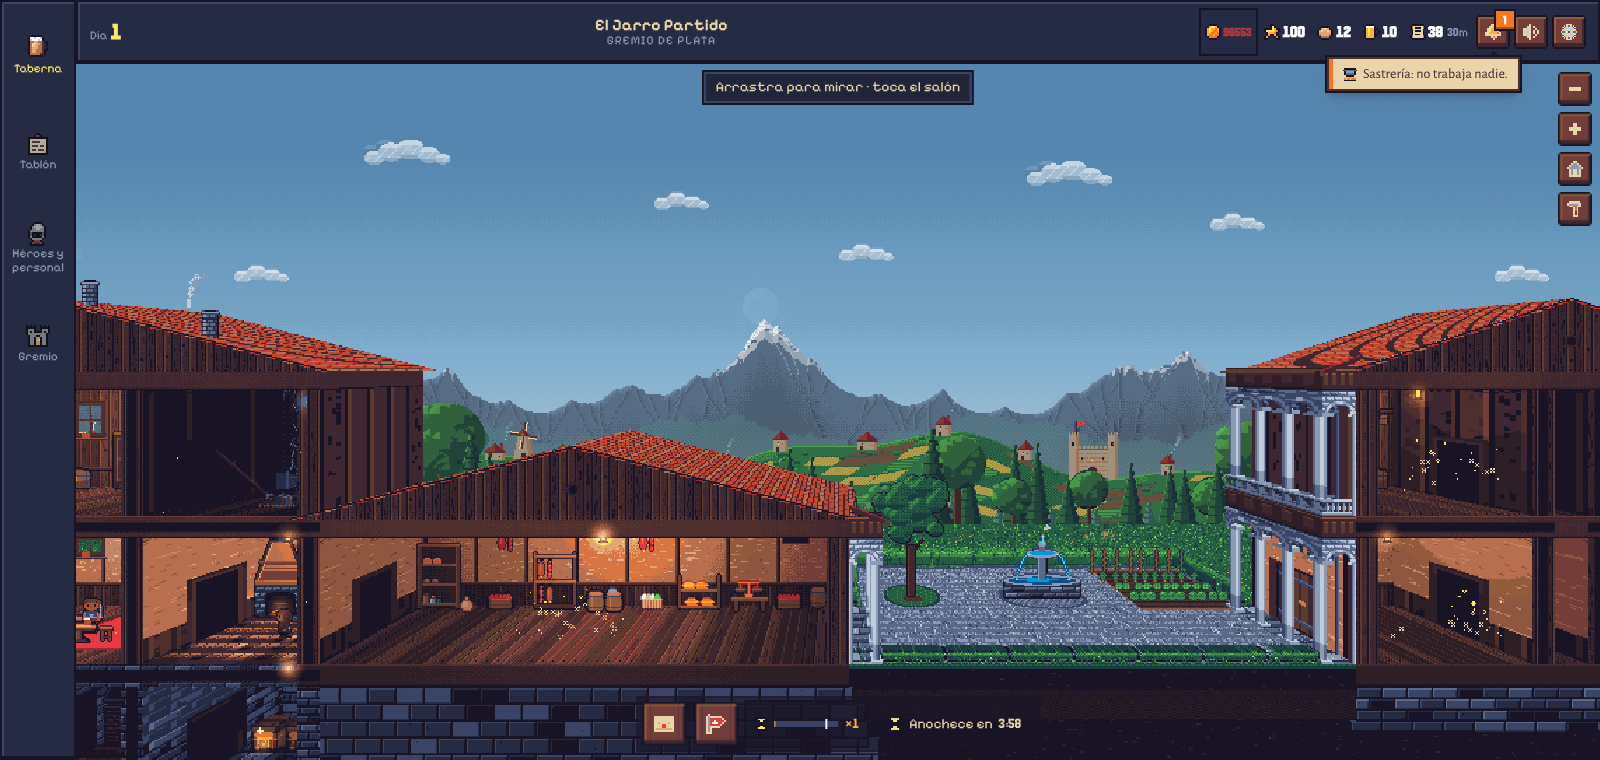
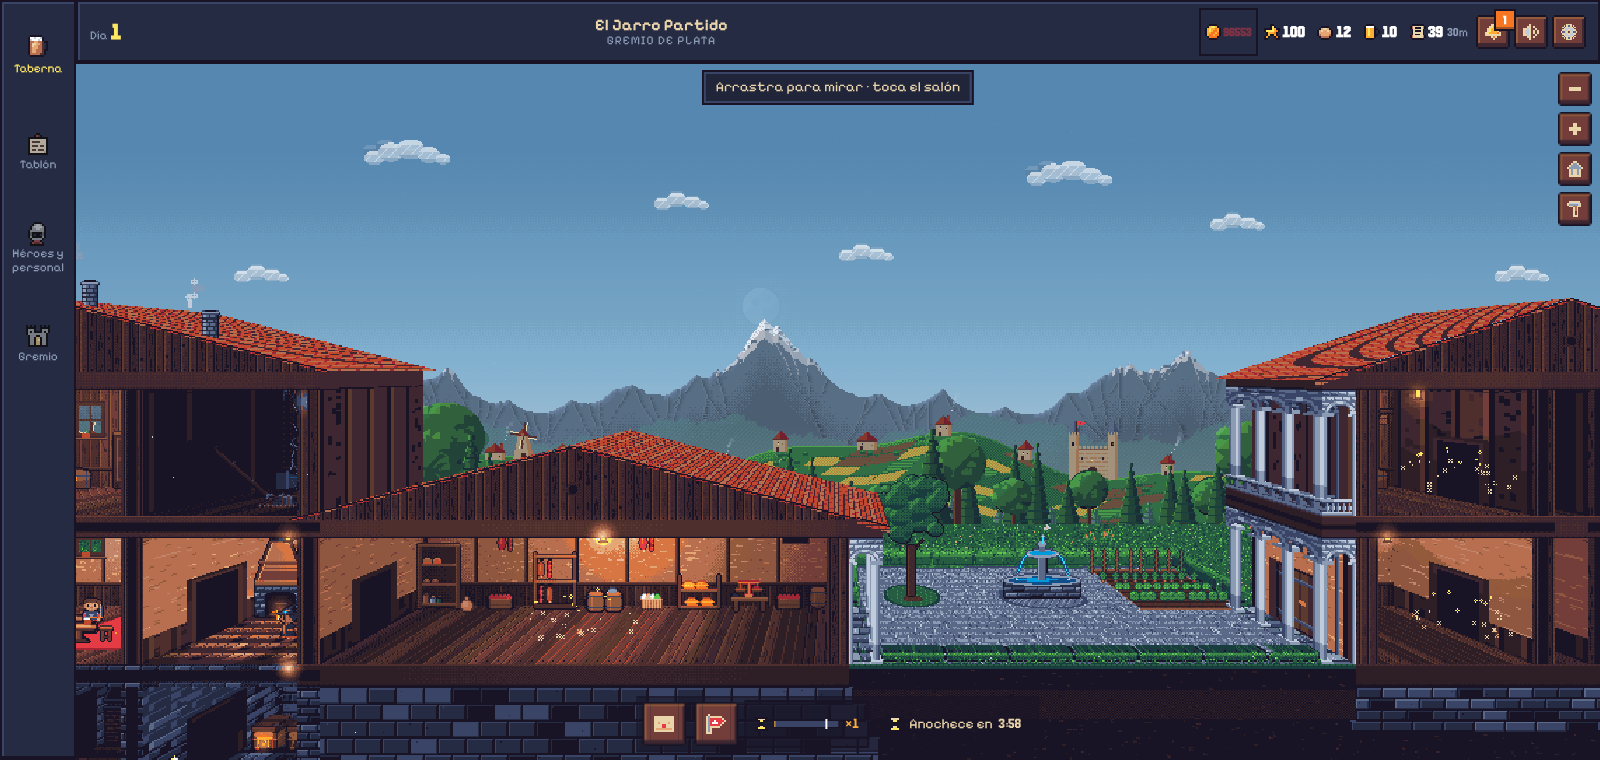
Claustro: el tejado es el faldón del edificio que sigue, y vigas y techos como los del edificio
- El faldón del edificio que da al jardín sigue con su pendiente y sus tejas
  hasta pasar los arcos, con el mismo canto de tejas delante que el
  hastial; la planta de arriba se recorta por la línea del tejado (antes
  asomaba la viga y el tejadillo iba del revés y no se veía).
- La viga del forjado es la del corte del edificio (alma oscura solo entre
  plantas) y el techo de los soportales, el de las salas.

Claude-Session: https://claude.ai/code/session_011Wau2CUcks799q681YrKG8

diff --git a/src/world/rooms/RoomScene.ts b/src/world/rooms/RoomScene.ts
@@ -28,7 +28,7 @@ import {
   WebGLRenderer,
   type ShaderMaterial,
 } from 'three';
-import { P, R, darker } from '../../art/palette';
+import { P, darker } from '../../art/palette';
 import { PixelBuffer, bayer, rgba, toHex } from '../../art/pixel';
 import type { Building, RaidResult, Room, RoomYield } from '../../core/model';
 import { ROOMS } from '../../data/rooms';
@@ -52,7 +52,6 @@ import { CANDLE, takeWallActs, type ActId, type PoiKind, type Round } from './sa
 import { FLIGHT_Z, flightArt, goesRight } from './stairs';
 import { dress } from './salas/tintes';
 import { Crowd, type Hit, type Poi, type Talk } from './crowd';
-import { roofAt } from './fachada';
 import {
   CLOISTER_W,
   COL_R,
@@ -63,10 +62,9 @@ import {
   LAMP_Z,
   PIECE_Z,
   VERGE_Z,
-  cloisterCeiling,
   cloisterEnd,
   cloisterSide,
-  eaveEnd,
+  eaveFront,
   hedgeFace,
   leafTex,
   edgeArt,
@@ -2083,13 +2081,37 @@ export class RoomScene {
             : [at(x, yb, D), at(x, yb, 0), at(x, yt, 0), at(x, yt, D)],
           o,
         );
+      // El tejado: el faldón del edificio que da al jardín sigue, con la misma pendiente y las
+      // mismas tejas, hasta pasar los arcos; delante, el mismo canto de tejas que el hastial. Si
+      // ese faldón no está a la altura del claustro (no debería pasar), un tejadillo propio.
+      const roof = model.look?.roof;
+      const base = floorTop(top) - SLAB;
+      const run = roofRuns(L).find(
+        (r) => r.base === base && Math.abs((s === 1 ? r.x1 - 6 : r.x0 + 6) - xw) < 1.5,
+      );
+      const xr = run ? (s === 1 ? run.x1 : run.x0) : xw;
+      const yr = run ? base + 2 : base - 9;
+      const slope = run ? (run.h + 2) / ((run.x1 - run.x0) / 2) : 11 / (CLOISTER_W + 5);
+      const xe = xa + s * 5;
+      const ye = yr + slope * Math.abs(xe - xr);
+      const d = D + 6;
+      // La línea del tejado en cada x (lo de la planta de arriba que quede por encima, fuera).
+      const roofY = (x: number) => yr + slope * s * (x - xr);
+      const underRoof = (img: PixelBuffer, xAt: (i: number) => number, yt: number) => {
+        for (let i = 0; i < img.w; i++) {
+          const cut = Math.ceil(roofY(xAt(i)) - yt);
+          for (let j = 0; j < Math.min(img.h, cut); j++) img.clear(i, j);
+        }
+        return img;
+      };
       for (let f = 0; f <= top; f++) {
         const yt = floorTop(f) - SLAB;
         const yb = floorY(f);
         const up = f > 0;
         const spring = yt + SLAB + SPRING;
         // Delante, el arco: la cara de fuera a la luz y la de dentro, más honda, en sombra.
-        const end = flip(cloisterEnd(CLOISTER_W, PITCH, up, SLAB));
+        let end = flip(cloisterEnd(CLOISTER_W, PITCH, up, SLAB, f < top));
+        if (f === top) end = underRoof(end, (i) => x0 + i + 0.5, yt);
         this.plane(g, end, [at(x0, yb, 0), at(x1, yb, 0), at(x1, yt, 0), at(x0, yt, 0)], lit);
         this.plane(g, end, [at(x0, yb, T), at(x1, yb, T), at(x1, yt, T), at(x0, yt, T)], deep);
         // De lado, igual: fuera, a la luz; dentro (hacia la fachada), en sombra.
@@ -2099,9 +2121,12 @@ export class RoomScene {
           up,
           SLAB,
           zs.map((z) => z / 2),
+          f < top,
         );
-        sideAt(side, xa, yb, yt, shade);
-        sideAt(side, xa - s * T, yb, yt, deep);
+        const cropAt = (x: number) =>
+          f === top ? underRoof(side.crop(0, 0, side.w, side.h), () => x, yt) : side;
+        sideAt(cropAt(xa), xa, yb, yt, shade);
+        sideAt(cropAt(xa - s * T), xa - s * T, yb, yt, deep);
         // Las columnas, con su basa y su capitel.
         for (const z of zs) {
           const base = up ? yb - PARAPET + 2 : yb;
@@ -2129,7 +2154,7 @@ export class RoomScene {
         const ceil = yt + SLAB;
         this.plane(
           g,
-          cloisterCeiling(CLOISTER_W, D / 2),
+          ceilingTex(themeOf(f), CLOISTER_W, `claustro${xw}${f}`),
           [at(x0, ceil, D), at(x1, ceil, D), at(x1, ceil, 0), at(x0, ceil, 0)],
           deep,
         );
@@ -2141,37 +2166,25 @@ export class RoomScene {
             shade,
           );
       }
-      // El tejadillo: de la fachada (arriba) a fuera del arco (abajo), con las tejas del edificio,
-      // su tabla de alero a lo largo y el testero delante.
-      const roof = model.look?.roof;
-      const ridge = floorTop(top) - SLAB - 9;
-      const eave = floorTop(top) - SLAB + 2;
-      const xe = xa + s * 5;
-      const len = Math.round(Math.hypot(xe - xw, eave - ridge));
       this.plane(
         g,
-        roofTiles(len, `tejadillo${xw}`, roof),
+        roofTiles(Math.round(Math.hypot(xe - xr, ye - yr)), `claustro${xw}`, roof),
         s === 1
-          ? [at(xe, eave, D + 2), at(xe, eave, -2), at(xw, ridge, -2), at(xw, ridge, D + 2)]
-          : [at(xe, eave, -2), at(xe, eave, D + 2), at(xw, ridge, D + 2), at(xw, ridge, -2)],
+          ? [at(xe, ye, 0), at(xe, ye, d), at(xr, yr, d), at(xr, yr, 0)]
+          : [at(xe, ye, d), at(xe, ye, 0), at(xr, yr, 0), at(xr, yr, d)],
         lit,
       );
-      const fascia = new PixelBuffer(D / 2 + 2, 3);
-      fascia.rect(0, 0, fascia.w, 3, R.wood[3]!);
-      fascia.hline(0, 2, fascia.w, R.wood[1]!);
-      sideAt(fascia, xe, eave + 3, eave, lit);
-      const ew = Math.round(Math.abs(xe - xw));
-      const eh = Math.round(eave - ridge) + 4;
-      const tip = roofAt(roof, 0, 0, 3);
-      const endImg = flip(eaveEnd(ew, eh, tip, R.wood[1]!));
+      const ew = Math.round(Math.abs(xe - xr));
+      const band = eaveFront(ew, ye - yr, roof);
+      const [ex0, ex1] = s === 1 ? [xr, xe] : [xe, xr];
       this.plane(
         g,
-        endImg,
+        flip(band),
         [
-          at(Math.min(xw, xe), ridge + eh, -2),
-          at(Math.max(xw, xe), ridge + eh, -2),
-          at(Math.max(xw, xe), ridge, -2),
-          at(Math.min(xw, xe), ridge, -2),
+          at(ex0, yr - 1 + band.h, -0.3),
+          at(ex1, yr - 1 + band.h, -0.3),
+          at(ex1, yr - 1, -0.3),
+          at(ex0, yr - 1, -0.3),
         ],
         lit,
       );

diff --git a/src/world/rooms/jardin.ts b/src/world/rooms/jardin.ts
@@ -7,8 +7,9 @@
 import { P, R } from '../../art/palette';
 import { PixelBuffer } from '../../art/pixel';
 import { Rng } from '../../core/rng';
-import type { GardenEdgeId, GardenGroundId, GardenPieceId } from '../../data/custom';
-import { stoneWall } from '../paint';
+import type { GardenEdgeId, GardenGroundId, GardenPieceId, RoofId } from '../../data/custom';
+import { beam as paintBeam, stoneWall } from '../paint';
+import { roofAt } from './fachada';
 import { oakTree, piece, well } from '../props';
 
 /** Profundidad del pie de las piezas de los trozos (detrás de la gente que cruza). */
@@ -21,6 +22,7 @@ export const VERGE_Z = 0.5;
 export const LAMP_Z = 50;
 
 const W = R.wood;
+const WOOD_DARK = [P.black, P.plum, P.bark, P.rust] as const;
 const STONE = R.stone; // [black, navy, slate, steel, fog, mist]
 
 // ---------- El suelo ----------
@@ -458,13 +460,19 @@ export const LIME = [P.slate, P.steel, P.fog, P.mist, P.white] as const;
  * entre la pilastra pegada a la fachada (a la izquierda) y la columna (a la derecha), y el
  * antepecho de balaustres en las plantas altas (`up`). Lo demás, transparente.
  */
-export function cloisterEnd(w: number, h: number, up: boolean, slab: number): PixelBuffer {
+export function cloisterEnd(
+  w: number,
+  h: number,
+  up: boolean,
+  slab: number,
+  core = true,
+): PixelBuffer {
   const b = new PixelBuffer(w, h);
   const PIL = 3;
   const spring = slab + SPRING;
   const colX = w - COL_R - 1;
   const r = (colX - PIL) / 2;
-  arcade(b, [PIL - 0.5, colX], spring, r, r, slab);
+  arcade(b, [PIL - 0.5, colX], spring, r, r, slab, core);
   // La pilastra: media columna pegada a la fachada.
   b.rect(0, spring - 1, PIL, h - spring + 1, LIME[2]);
   b.vline(0, spring, h - spring, LIME[3]);
@@ -486,13 +494,14 @@ export function cloisterSide(
   up: boolean,
   slab: number,
   cols: number[],
+  core = true,
 ): PixelBuffer {
   const b = new PixelBuffer(d, h);
   const spring = slab + SPRING;
   // Los arcos van de columna a columna; a lo hondo, la textura va a media resolución (el arco,
   // de medio punto en el mundo, aquí es una elipse el doble de alta que ancha).
   const ru = ((cols[1] ?? d) - (cols[0] ?? 0)) / 2;
-  arcade(b, cols, spring, ru, ru * 2, slab);
+  arcade(b, cols, spring, ru, ru * 2, slab, core);
   if (up) balustrade(b, 0, h - PARAPET, d);
   return b;
 }
@@ -508,10 +517,11 @@ function arcade(
   rx: number,
   ry: number,
   slab: number,
+  core: boolean,
 ) {
   const w = b.w;
   stoneWall(b, 0, slab, w, spring - slab, `enjuta${w}`, { ramp: [...LIME], bw: 6, bh: 4 });
-  beam(b, 0, 0, w, slab);
+  beam(b, 0, 0, w, slab, core);
   // La sombra de la viga sobre la piedra.
   b.hline(0, slab, w, LIME[0]);
   for (let k = 0; k + 1 < at.length; k++) {
@@ -541,17 +551,6 @@ function arcade(
   for (const x of at) b.rect(Math.round(x) - 2, spring - 1, 5, 2, LIME[3]);
 }
 
-/** El techo de los soportales: tablas con vigas a lo hondo (ancho × fondo a media resolución). */
-export function cloisterCeiling(w: number, d: number): PixelBuffer {
-  const b = new PixelBuffer(w, d);
-  for (let y = 0; y < d; y++)
-    for (let x = 0; x < w; x++) {
-      const joist = y % 5 === 0;
-      b.set(x, y, joist ? W[1]! : x % 4 === 0 ? W[1]! : W[2]!);
-    }
-  return b;
-}
-
 /** El suelo de una galería de arriba: tablas a lo hondo (ancho × fondo a media resolución). */
 export function galleryFloor(w: number, d: number): PixelBuffer {
   const b = new PixelBuffer(w, d);
@@ -562,33 +561,33 @@ export function galleryFloor(w: number, d: number): PixelBuffer {
 }
 
 /**
- * El testero del tejadillo, delante (`w` × `h`): el canto de las tejas por la vertiente, de la
- * fachada (arriba a la izquierda) al alero (abajo a la derecha), la tabla del alero y, debajo, la
- * sombra; lo de encima de la vertiente, transparente.
+ * El canto de delante del faldón que cubre el claustro (`w` de largo, bajando `drop` de la
+ * fachada hacia fuera): la raya negra de la vertiente y el grueso de las tejas, como el alero
+ * del hastial (ver `gable` en `textures.ts`); debajo, su sombra.
  */
-export function eaveEnd(w: number, h: number, tile: string, dark: string): PixelBuffer {
-  const b = new PixelBuffer(w, h);
-  for (let x = 0; x < w; x++) {
-    const y0 = Math.round(((h - 4) * x) / Math.max(1, w - 1));
-    b.set(x, y0, tile);
-    b.set(x, y0 + 1, dark);
-    for (let y = y0 + 2; y < Math.min(h, y0 + 4); y++) b.set(x, y, W[2]!);
+export function eaveFront(w: number, drop: number, roof?: RoofId): PixelBuffer {
+  const thick = (roof ?? 'teja') === 'paja' ? 7 : 4;
+  const b = new PixelBuffer(Math.max(1, w), Math.ceil(drop) + thick + 3);
+  for (let x = 0; x < b.w; x++) {
+    const y0 = 1 + Math.round((drop * x) / Math.max(1, b.w - 1));
+    b.set(x, y0 - 1, P.black);
+    for (let k = 0; k < thick; k++) b.set(x, y0 + k, roofAt(roof, x, y0 + k, 3));
+    b.set(x, y0 + thick, P.plum);
   }
-  b.rect(w - 3, h - 4, 3, 4, W[3]!);
   return b;
 }
 
-function beam(b: PixelBuffer, x: number, y: number, w: number, h: number) {
-  b.rect(x, y, w, h, W[2]!);
-  b.hline(x, y, w, W[1]!);
-  b.hline(x, y + 1, w, W[4]!);
-  b.hline(x, y + h - 2, w, W[1]!);
-  b.hline(x, y + h - 1, w, P.black);
-  // Las cabezas de las viguetas.
-  for (let i = x + 2; i < x + w - 2; i += 6) {
-    b.rect(i, y + 4, 3, h - 8, W[3]!);
-    b.hline(i, y + 4, 3, W[4]!);
-  }
+/**
+ * La viga del forjado, como la del corte del edificio (ver `facade`): madera oscura con su luz
+ * arriba y, entre dos plantas (`core`), el alma oscura en medio.
+ */
+function beam(b: PixelBuffer, x: number, y: number, w: number, h: number, core = true) {
+  paintBeam(b, x, y, w, h, WOOD_DARK);
+  if (!core) return;
+  const c = y + Math.round(h / 2) - 2;
+  b.rect(x, c, w, 4, P.black);
+  b.hline(x, c, w, P.ebony);
+  b.hline(x, c + 3, w, P.ebony);
 }
 
 /** El antepecho de una galería de arriba: pasamanos, balaustres torneados y zócalo. */

diff --git a/docs/plan-arte.md b/docs/plan-arte.md
@@ -173,6 +173,12 @@ npm run build`.
          verdad (`pillar`: cilindros de 10 caras con luz, capitel y basa con `block`), arcos con
          dovelas, clave e intradós en sombra y con grosor (dos caras), pilastra en la fachada,
          techo de vigas, balaustres torneados, y el tejadillo con su tabla de alero y testero.
+   - [x] 5d. El tejado del claustro (el usuario: «que quede bien con el resto»): es el faldón del
+         edificio que da al jardín, que sigue con su pendiente y sus tejas hasta pasar los arcos,
+         con el mismo canto de tejas delante que el hastial (`eaveFront`); lo de la planta de
+         arriba que quedaría por encima se recorta por la línea del tejado. La viga del forjado
+         es la del corte (con el alma oscura solo entre plantas) y el techo, el de las salas
+         (`ceilingTex`).
    - [x] 5c. Con borde de seto, setos también al fondo del césped y a los lados donde ya no hay
          edificios (`backHedges`, con cara, lomo y testeros; `hedgeFace` como el de delante).
    - [ ] 6. Que no se cuelen árboles ni arbustos en el jardín ni en el anexo.
